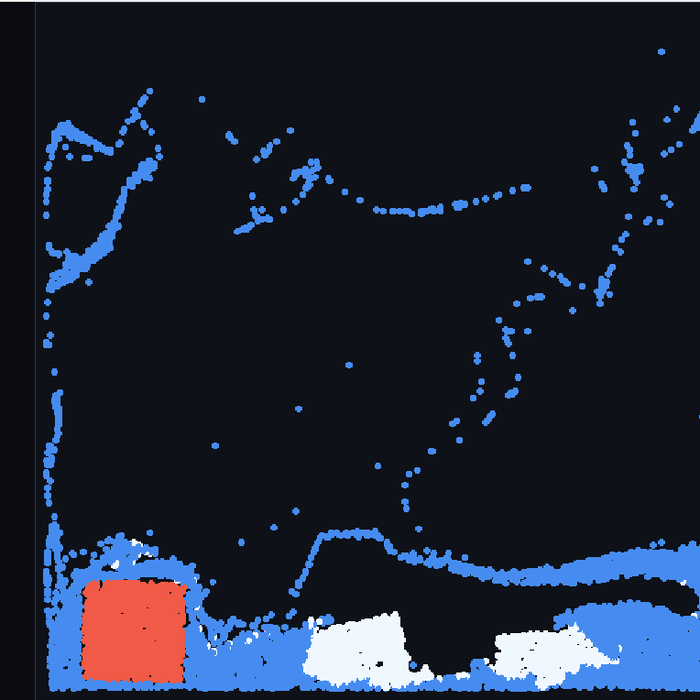
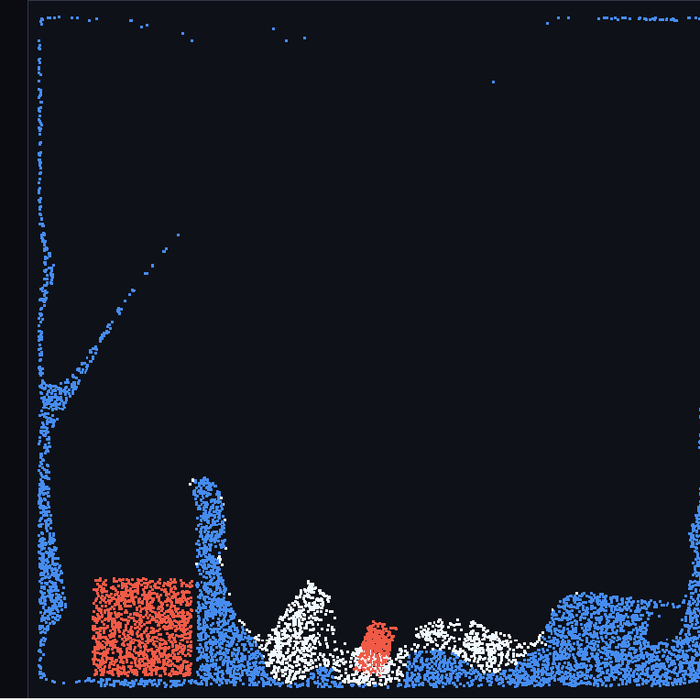
fix(mpm): smaller splats and a pour path that does not stall
The stutter when placing solids was not the physics: add_cube took 16 to 20 ms every call because the seeding kernel received three ti.Vector arguments, and each vector argument is copied host to device with a synchronisation on every launch. Replaced with seven scalar arguments, which pass by value - the call is now 0.4 to 0.7 ms, measured, against 19 ms before. The particle counter also moved inside the kernel (one atomic_add hands out the whole batch) so Python no longer reads it back on every pour. Splat radius is derived from the particle spacing instead of being fixed: at 128 grid with 4 per cell that is one pixel in a 768 square buffer, against the five-pixel discs of the previous build. Render buffer went from 512 to 768 for the remaining crispness, which costs about 10 ms a frame - the frame is now render bound at 55 ms rather than physics bound at 41.

diff --git a/apps/Physics/MPM2D.py b/apps/Physics/MPM2D.py
@@ -23,8 +23,9 @@ MATERIAL_STATIONARY = 4
 
 SUPPORT_PLASTICITY = True
 WATER_DENSITY = 1.0
-RENDER_RES = 512
+RENDER_RES = 768
 MAX_PARTICLES = 600000
+MAX_SUBSTEPS = 40             # 单帧子步上限，避免局部爆炸时卡死
 
 
 @ti.data_oriented
@@ -268,22 +269,25 @@ class MPM2D:
         self._blur = blur
 
     @ti.kernel
-    def _seed(self, start: ti.i32, count: ti.i32, new_material: ti.i32,
-              lower: ti.template(), upper: ti.template(), vel: ti.template()):
+    def _seed_batch(self, count: ti.i32, new_material: ti.i32,
+                    lx: real, ly: real, ux: real, uy: real,
+                    vx: real, vy: real):
+        # 一次 atomic 拿一整段下标，Python 侧不回读，避免每倒一次就同步一次
+        base = ti.atomic_add(self.n_particles[None], count)
         for k in range(count):
-            p = start + k
-            rx = ti.random()
-            ry = ti.random()
-            self.x[p] = ti.Vector([lower[0] + rx * (upper[0] - lower[0]),
-                                   lower[1] + ry * (upper[1] - lower[1])])
-            self.v[p] = ti.Vector([vel[0], vel[1]])
-            self.F[p] = ti.Matrix([[1.0, 0.0], [0.0, 1.0]])
-            self.C[p] = ti.Matrix([[0.0, 0.0], [0.0, 0.0]])
-            self.material[p] = new_material
-            if new_material == MATERIAL_SAND:
-                self.Jp[p] = 0.0
-            else:
-                self.Jp[p] = 1.0
+            p = base + k
+            if p < self.max_particles:
+                rx = ti.random()
+                ry = ti.random()
+                self.x[p] = ti.Vector([lx + rx * (ux - lx), ly + ry * (uy - ly)])
+                self.v[p] = ti.Vector([vx, vy])
+                self.F[p] = ti.Matrix([[1.0, 0.0], [0.0, 1.0]])
+                self.C[p] = ti.Matrix([[0.0, 0.0], [0.0, 0.0]])
+                self.material[p] = new_material
+                if new_material == MATERIAL_SAND:
+                    self.Jp[p] = 0.0
+                else:
+                    self.Jp[p] = 1.0
 
     def add_cube(self, lower, size, material, velocity=(0.0, 0.0),
                  sample_density=None):
@@ -291,21 +295,17 @@ class MPM2D:
             sample_density = self.density
         vol = size[0] * size[1]
         num_new = int(sample_density * vol / self.dx ** dim + 1)
-        start = int(self.n_particles[None])
-        if start + num_new > self.max_particles:
-            return 0
-        lower_v = ti.Vector([float(lower[0]), float(lower[1])])
-        upper_v = ti.Vector([float(lower[0] + size[0]), float(lower[1] + size[1])])
-        vel_v = ti.Vector([float(velocity[0]), float(velocity[1])])
-        self._seed(start, num_new, int(material), lower_v, upper_v, vel_v)
-        self.n_particles[None] = start + num_new
+        self._seed_batch(num_new, int(material),
+                         float(lower[0]), float(lower[1]),
+                         float(lower[0] + size[0]), float(lower[1] + size[1]),
+                         float(velocity[0]), float(velocity[1]))
         return num_new
 
     def step(self, frame_dt):
         vmax = float(self._max_velocity())
         cfl_dt = self.allowed_cfl * self.dx / (vmax + 1e-6)
         dt = min(self.default_dt * self.dt_scale, cfl_dt)
-        substeps = max(1, int(frame_dt / dt) + 1)
+        substeps = max(1, min(MAX_SUBSTEPS, int(frame_dt / dt) + 1))
         dt = frame_dt / substeps
         for _ in range(substeps):
             self._clear_grid()
@@ -314,7 +314,14 @@ class MPM2D:
             self._g2p(dt)
         return substeps
 
-    def draw(self, radius=2):
+    def particle_radius(self):
+        """点半径按粒子间距自适应，避免大块圆点。"""
+        spacing_px = (self.dx / max(1.0, (self.density ** 0.5))) * RENDER_RES
+        return max(1, int(round(spacing_px * 0.35)))
+
+    def draw(self, radius=None):
+        if radius is None:
+            radius = self.particle_radius()
         self._render(radius)
         self._blur()
         return np.clip(self.img.to_numpy(), 0, 255).astype(np.uint8)
@@ -416,24 +423,24 @@ class MPMApp(QMainWindow):
                           material=MATERIAL_SNOW)
         self.sim.add_cube(lower=(0.30, 0.22), size=(0.40, 0.20),
                           material=MATERIAL_WATER)
-        self.frame = self.sim.draw(2)
+        self.frame = self.sim.draw()
 
     def pour(self, x, y):
         now = time.perf_counter()
-        if now - self._last_pour < 0.06:
+        if now - self._last_pour < 0.10:
             return
         self._last_pour = now
         if not (0.05 < x < 0.95 and 0.05 < y < 0.95):
             return
-        r = max(0.01, self.brush / 100.0 * 0.06)
+        r = max(0.008, self.brush / 100.0 * 0.045)
         self.sim.add_cube(lower=(x - r, y - r), size=(2 * r, 2 * r),
                           material=MATERIAL_IDS[self.material],
-                          velocity=(0.0, -0.5))
+                          velocity=(0.0, 0.0))
 
     def tick(self):
         if not self.paused:
             self.substeps = self.sim.step(self.frame_dt)
-            self.frame = self.sim.draw(2)
+            self.frame = self.sim.draw()
             self.canvas.update()
             now = time.perf_counter()
             dt = now - self._last_t
